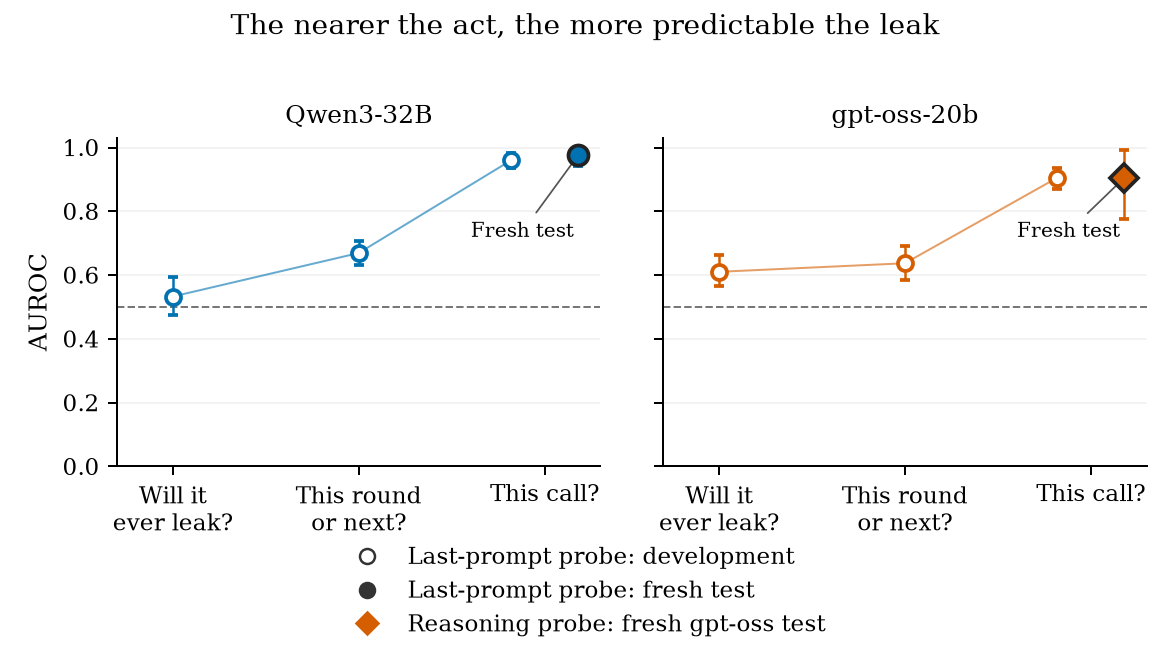
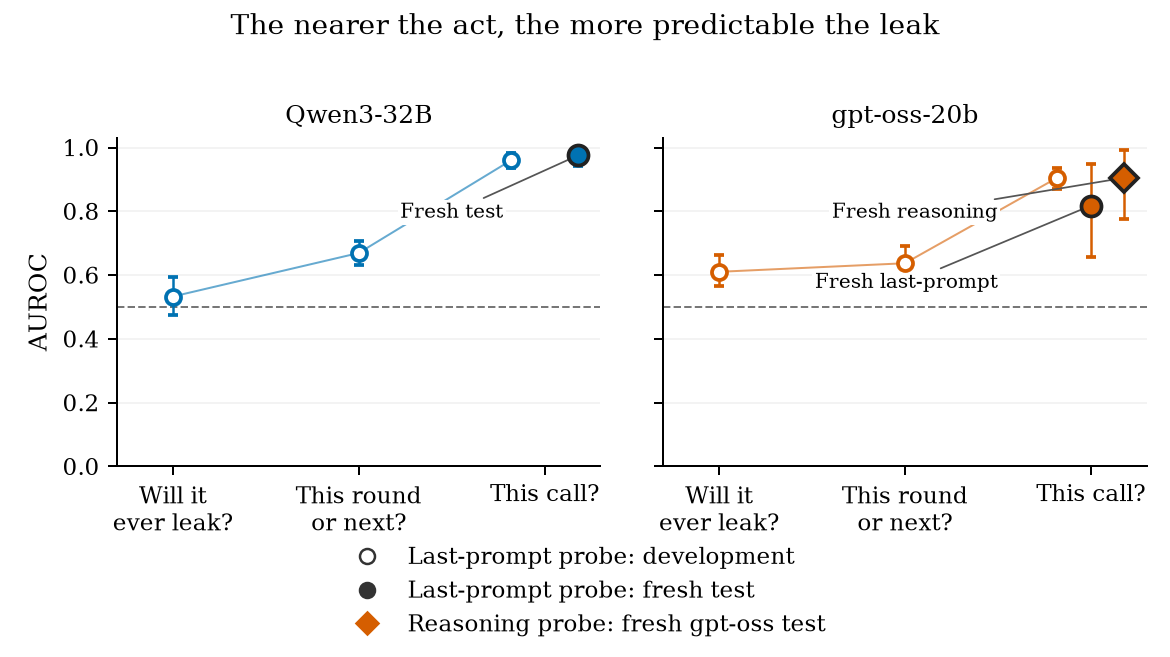
Restore fresh GPT input point and clear chance-line label overlaps

diff --git a/paper-arxiv/figures/src/make_results.py b/paper-arxiv/figures/src/make_results.py
@@ -73,14 +73,17 @@ def headline(data,sha):
         # Do not bridge an unobserved rung.
         for a,b in zip(values,values[1:]):
             if .8 <= b[0]-a[0] <= 1:ax.plot([a[0],b[0]],[a[1],b[1]],color=MODEL_COLORS[model],lw=.8,alpha=.6)
-        fresh=[(2,'qwenFreshCallProbe','activation')] if model=='qwen' else [(2,'gptossFreshReasoning','activation')]
+        fresh=[(2,'qwenFreshCallProbe','activation')] if model=='qwen' else [(2,'gptossFreshCallProbe','activation'),(2,'gptossFreshReasoning','activation')]
         for i,(x,key,kind) in enumerate(fresh):
             e=get(data,key);rows.append((title,'Fresh test: '+key,e))
-            draw(ax,x+.18,None,e,model,kind,fresh=True,
+            fresh_x=x+(0 if model=='gpt_oss' and i==0 else .18)
+            draw(ax,fresh_x,None,e,model,kind,fresh=True,
                  marker='D' if key=='gptossFreshReasoning' else 'o')
             if e.get('value') is not None:
-                ax.annotate('Fresh test',xy=(x+.18,e['value']),xytext=(x-.12,.72),
-                            ha='center',fontsize=8,arrowprops=dict(arrowstyle='-',color='#555555',lw=.7))
+                ax.annotate('Fresh last-prompt' if key=='gptossFreshCallProbe' else ('Fresh reasoning' if model=='gpt_oss' else 'Fresh test'),
+                            xy=(fresh_x,e['value']),xytext=(x-.50,.56 if model=='gpt_oss' and i==0 else .78),
+                            ha='right' if model=='gpt_oss' else 'center',fontsize=8,
+                            bbox=dict(facecolor='white',edgecolor='none',pad=1),arrowprops=dict(arrowstyle='-',color='#555555',lw=.7))
         ax.axhline(.5,color='#777777',ls='--',lw=.8)
         ax.set(xlim=(-.3,2.3),ylim=(0,1.03),xticks=[0,1,2],xticklabels=['Will it\never leak?','This round\nor next?','This call?'],title=title)
         ax.grid(axis='y',alpha=.15)
@@ -113,6 +116,7 @@ def forest(data,sha,stem,title,panels):
             e=get(data,key);rows.append((panel,label,e))
             draw(ax,None,y,e,model,kind,horizontal=True)
             ax.text(.02,y-.30,label,va='center',fontsize=10 if compact else 9,
+                    bbox=dict(facecolor='white',edgecolor='none',pad=1.5),
                     transform=ax.get_yaxis_transform())
         ax.set(xlim=(0,1.03),ylim=(len(items)-.4,-.8),yticks=[],xlabel='AUROC',xticks=[0,.5,1])
         ax.axvline(.5,color='#777777',ls='--',lw=.8)
